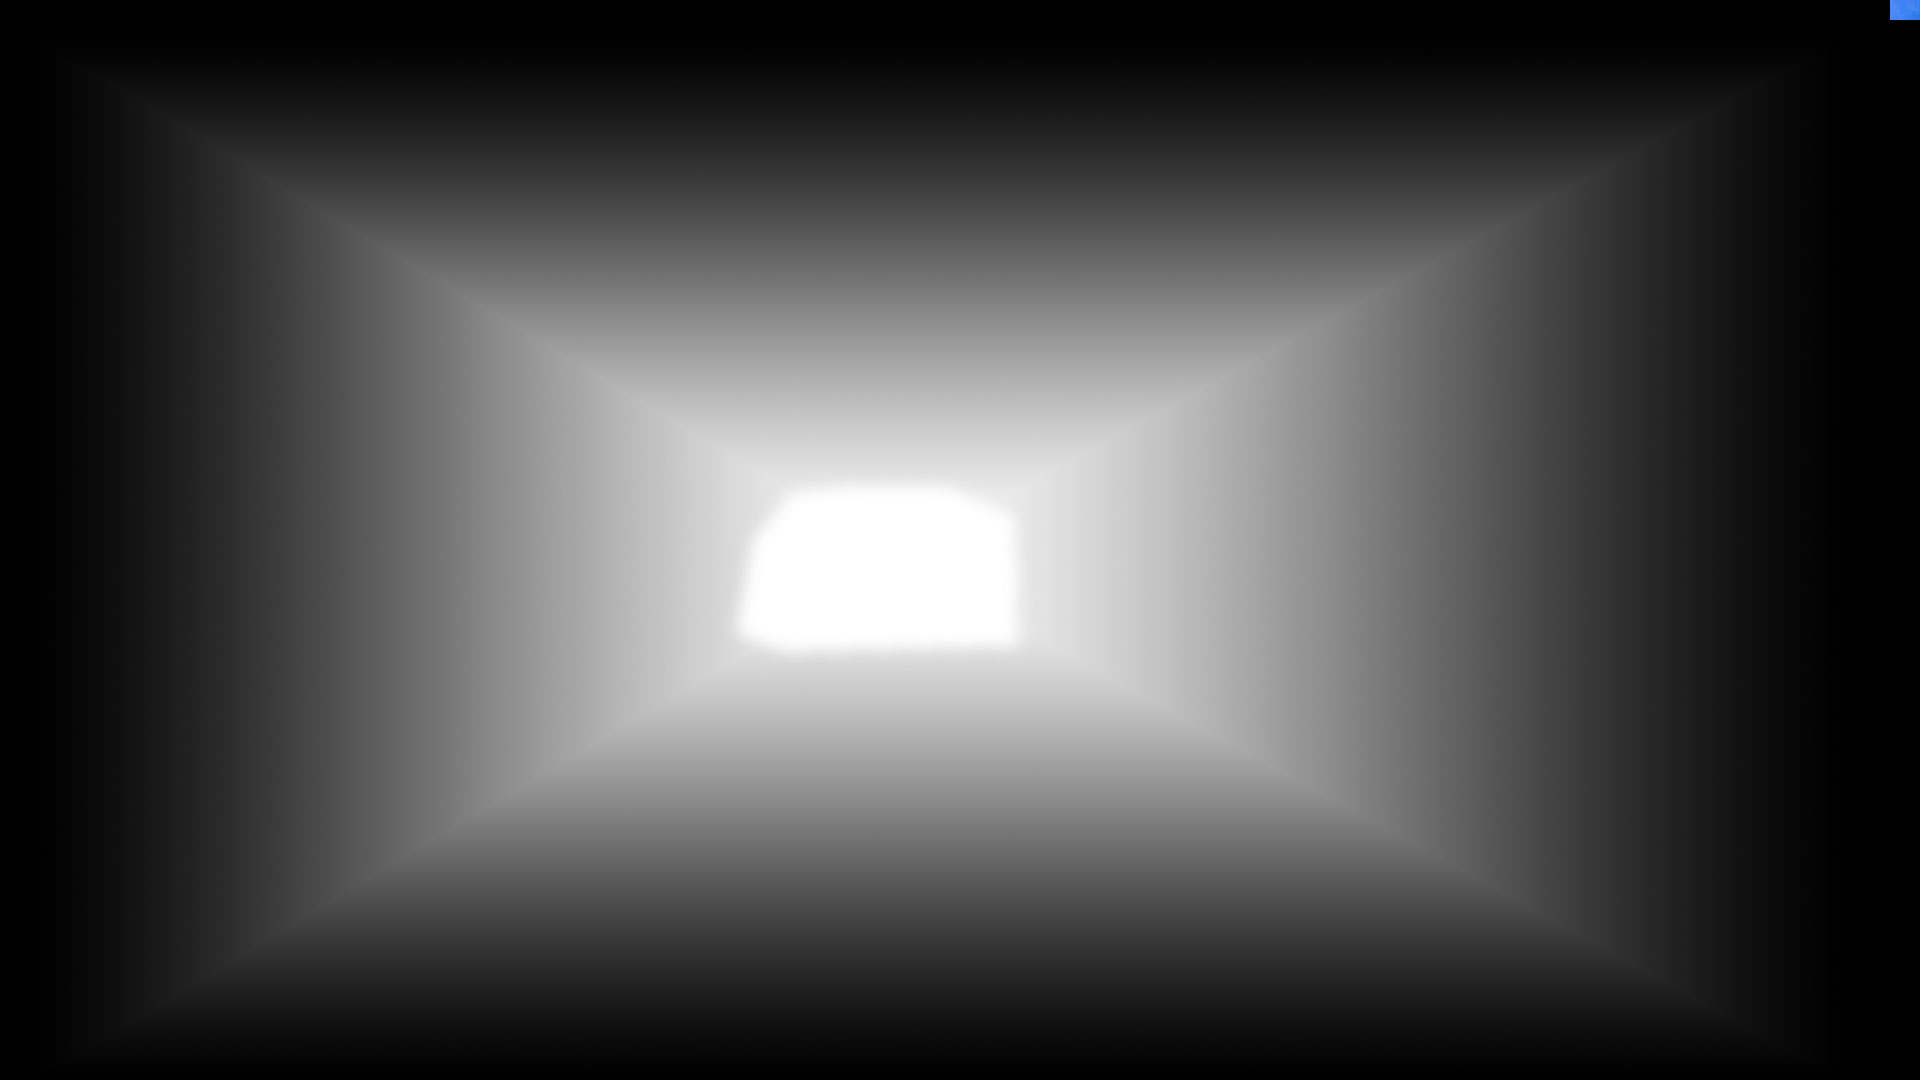
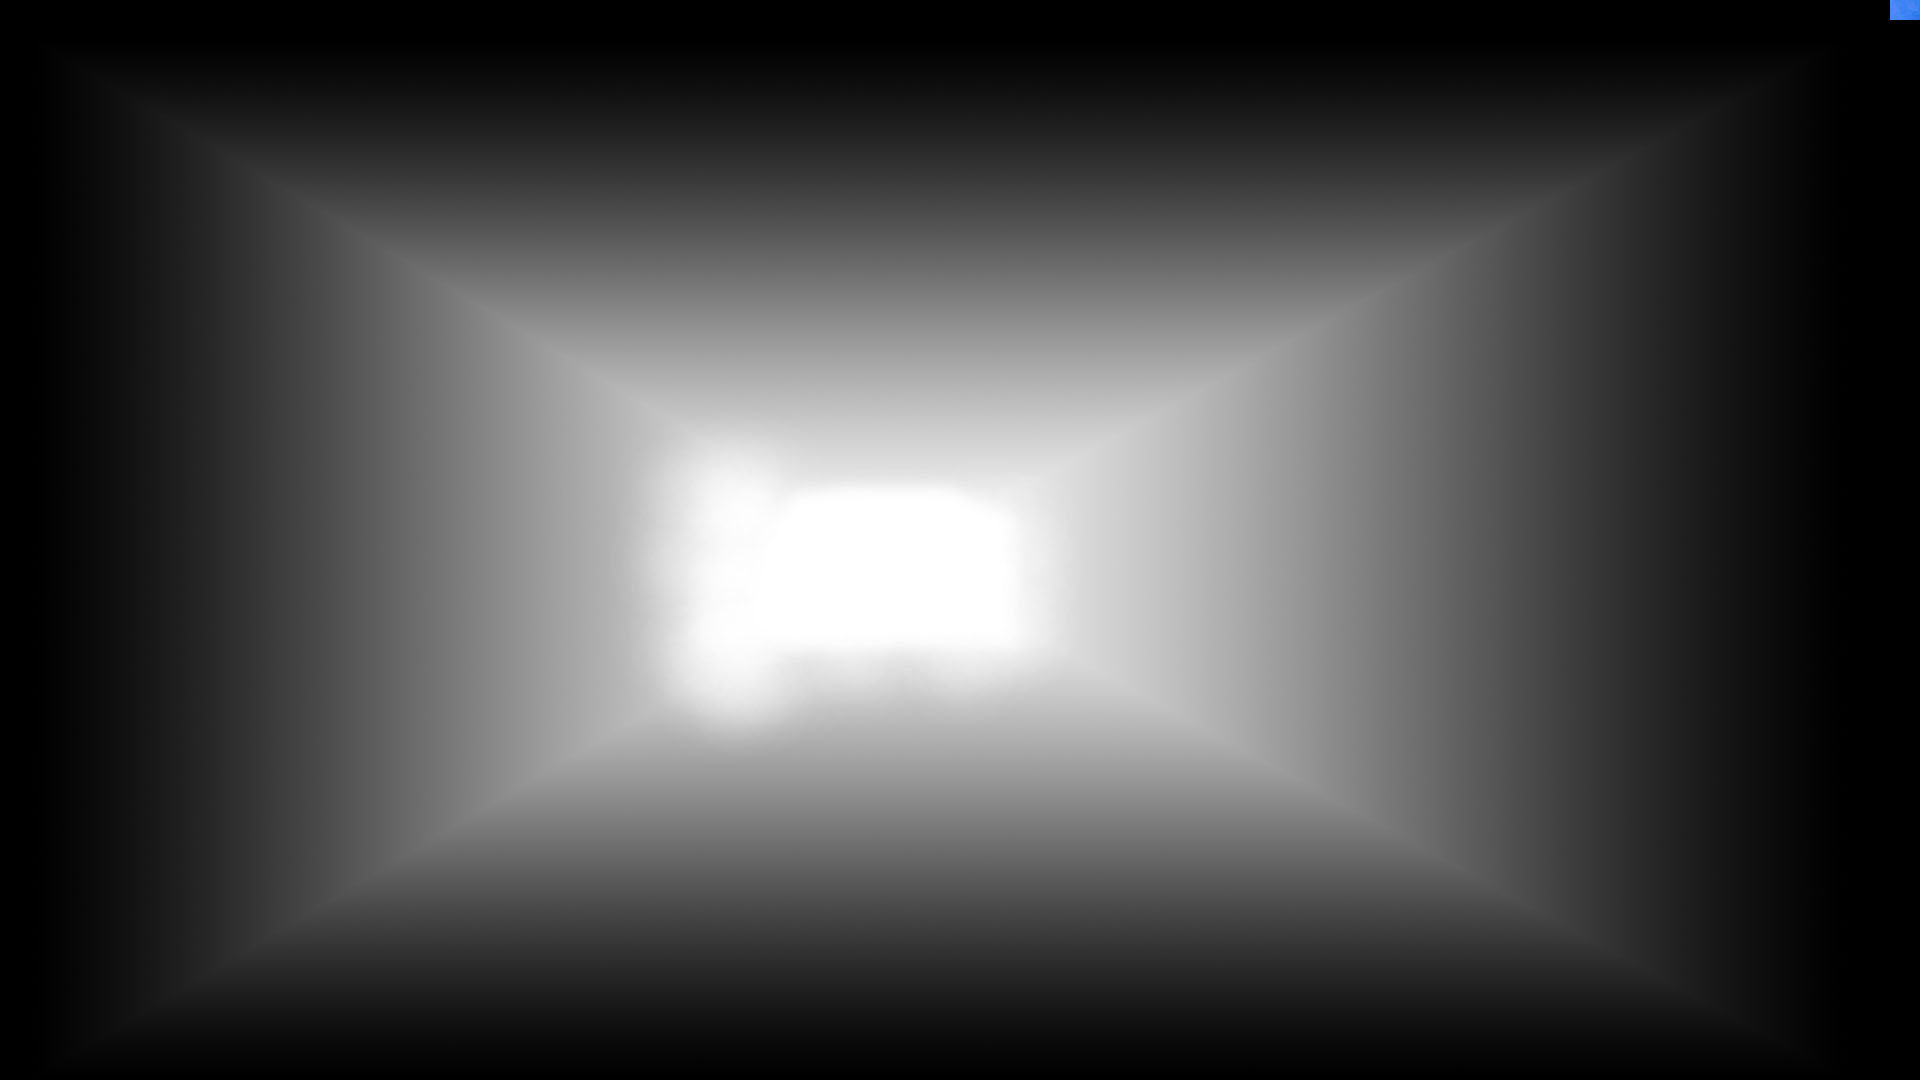
Better tunnell effect

Changed region(s): [[0.3438, 0.4278, 0.4062, 0.6722]]

diff --git a/app/js/scenes/sociological.js b/app/js/scenes/sociological.js
@@ -1,7 +1,7 @@
 var Sociological = function (options) {
-	var DISPLACE_AMOUNT = 0.2, // 0.12 is a good amount, but making it higher for demo
+	var DISPLACE_AMOUNT = 0.1, // 0.12 is a good amount, but making it higher for demo
 		PAN_AMOUNT = 0,
-		VERTICAL_DISPLACE = 0.3,
+		VERTICAL_DISPLACE = 0.1,
 		TRANSITION_TIME = 0.75,
 
 		totalOffset = 2 * (0.03 + PAN_AMOUNT + DISPLACE_AMOUNT),
